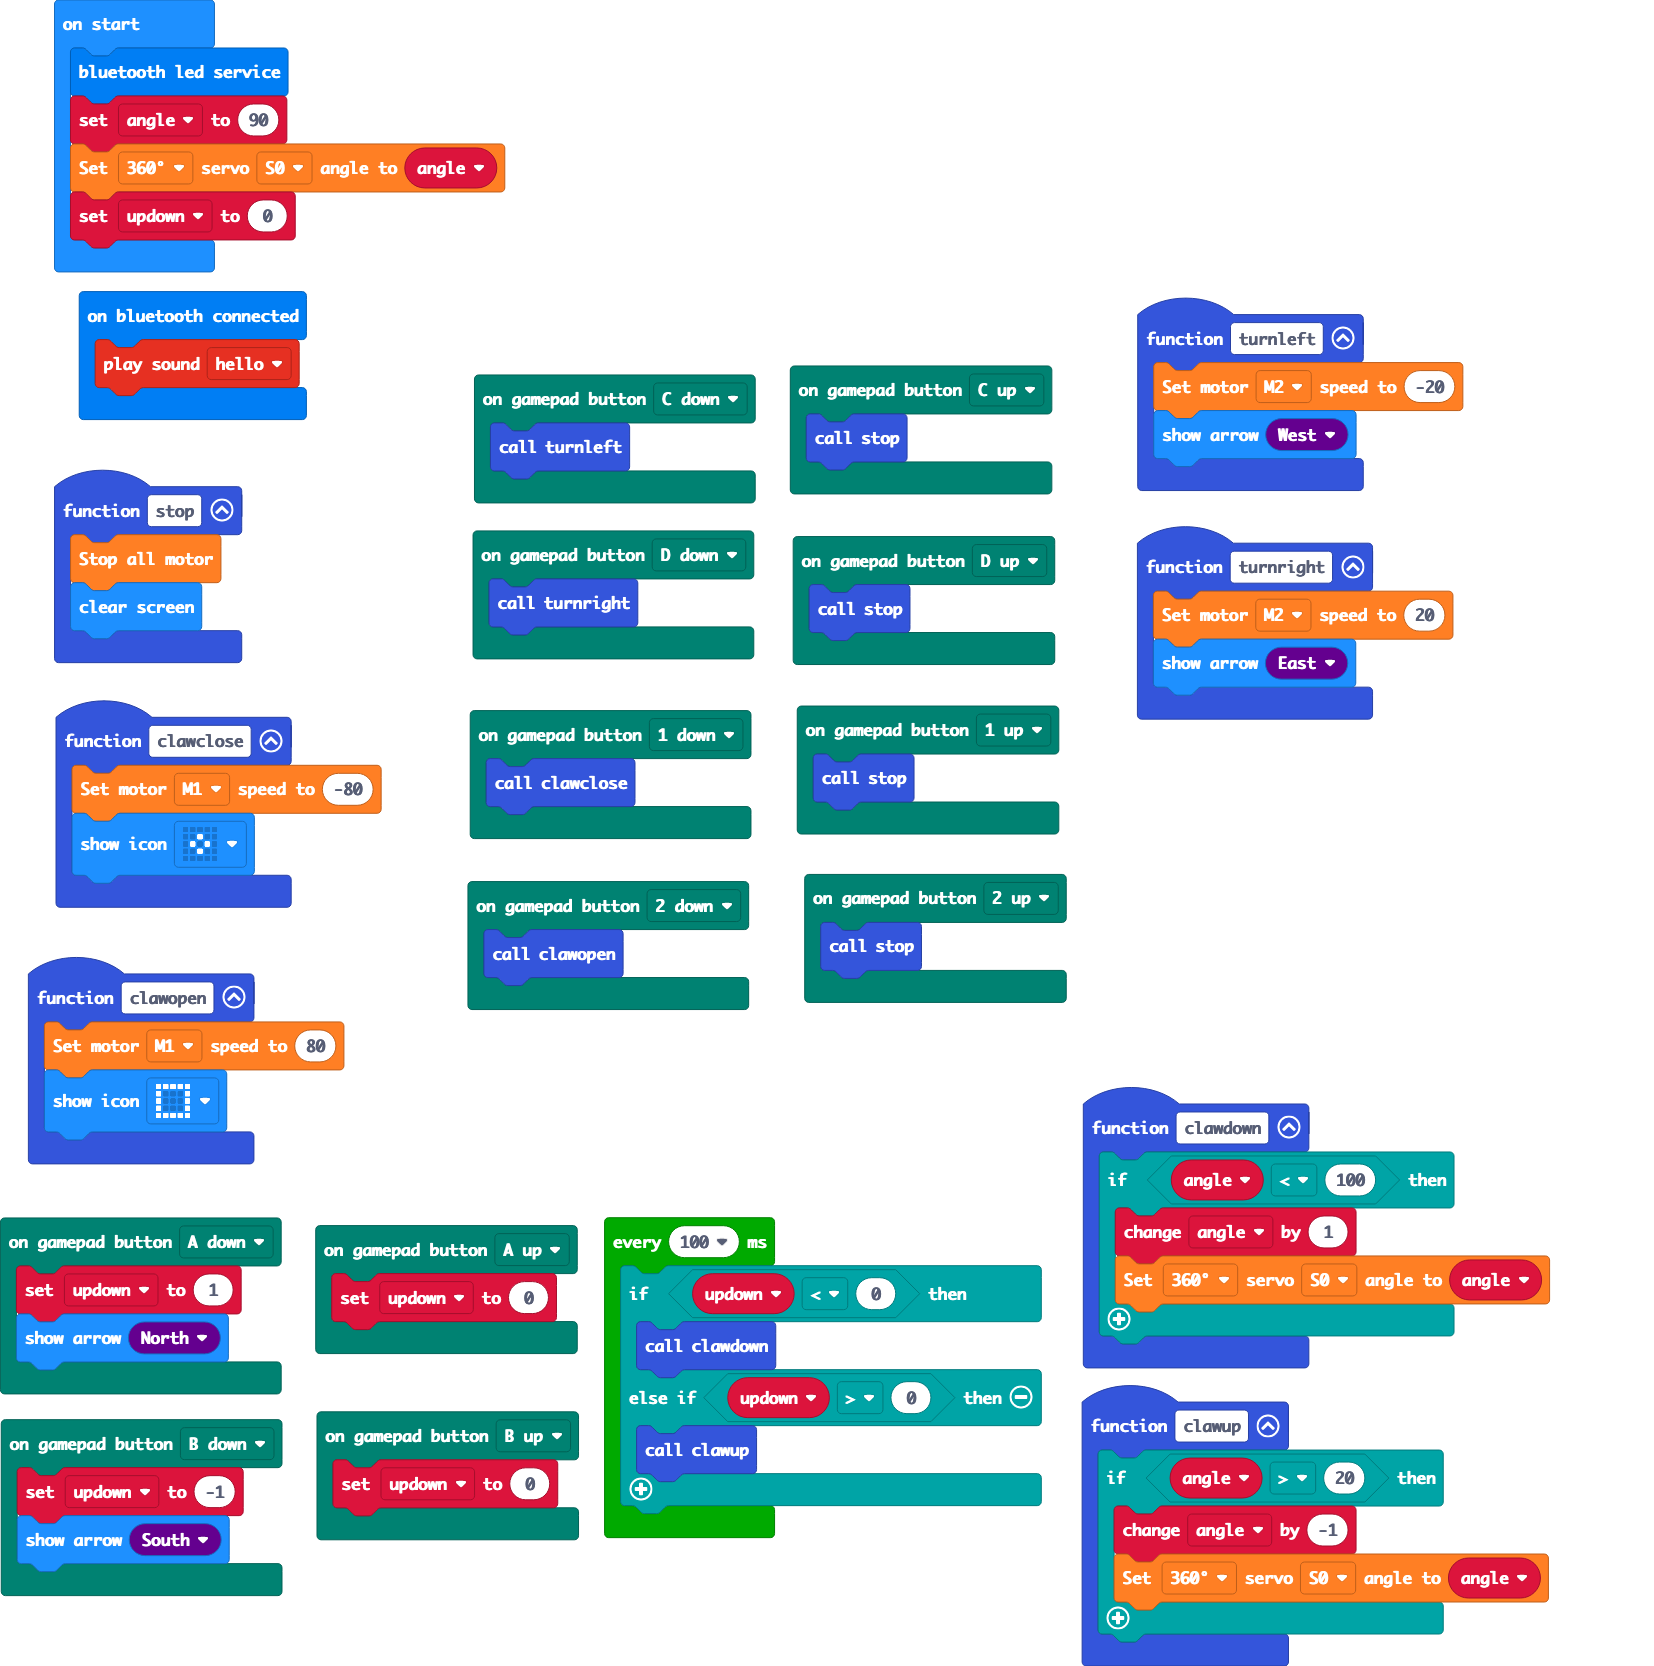
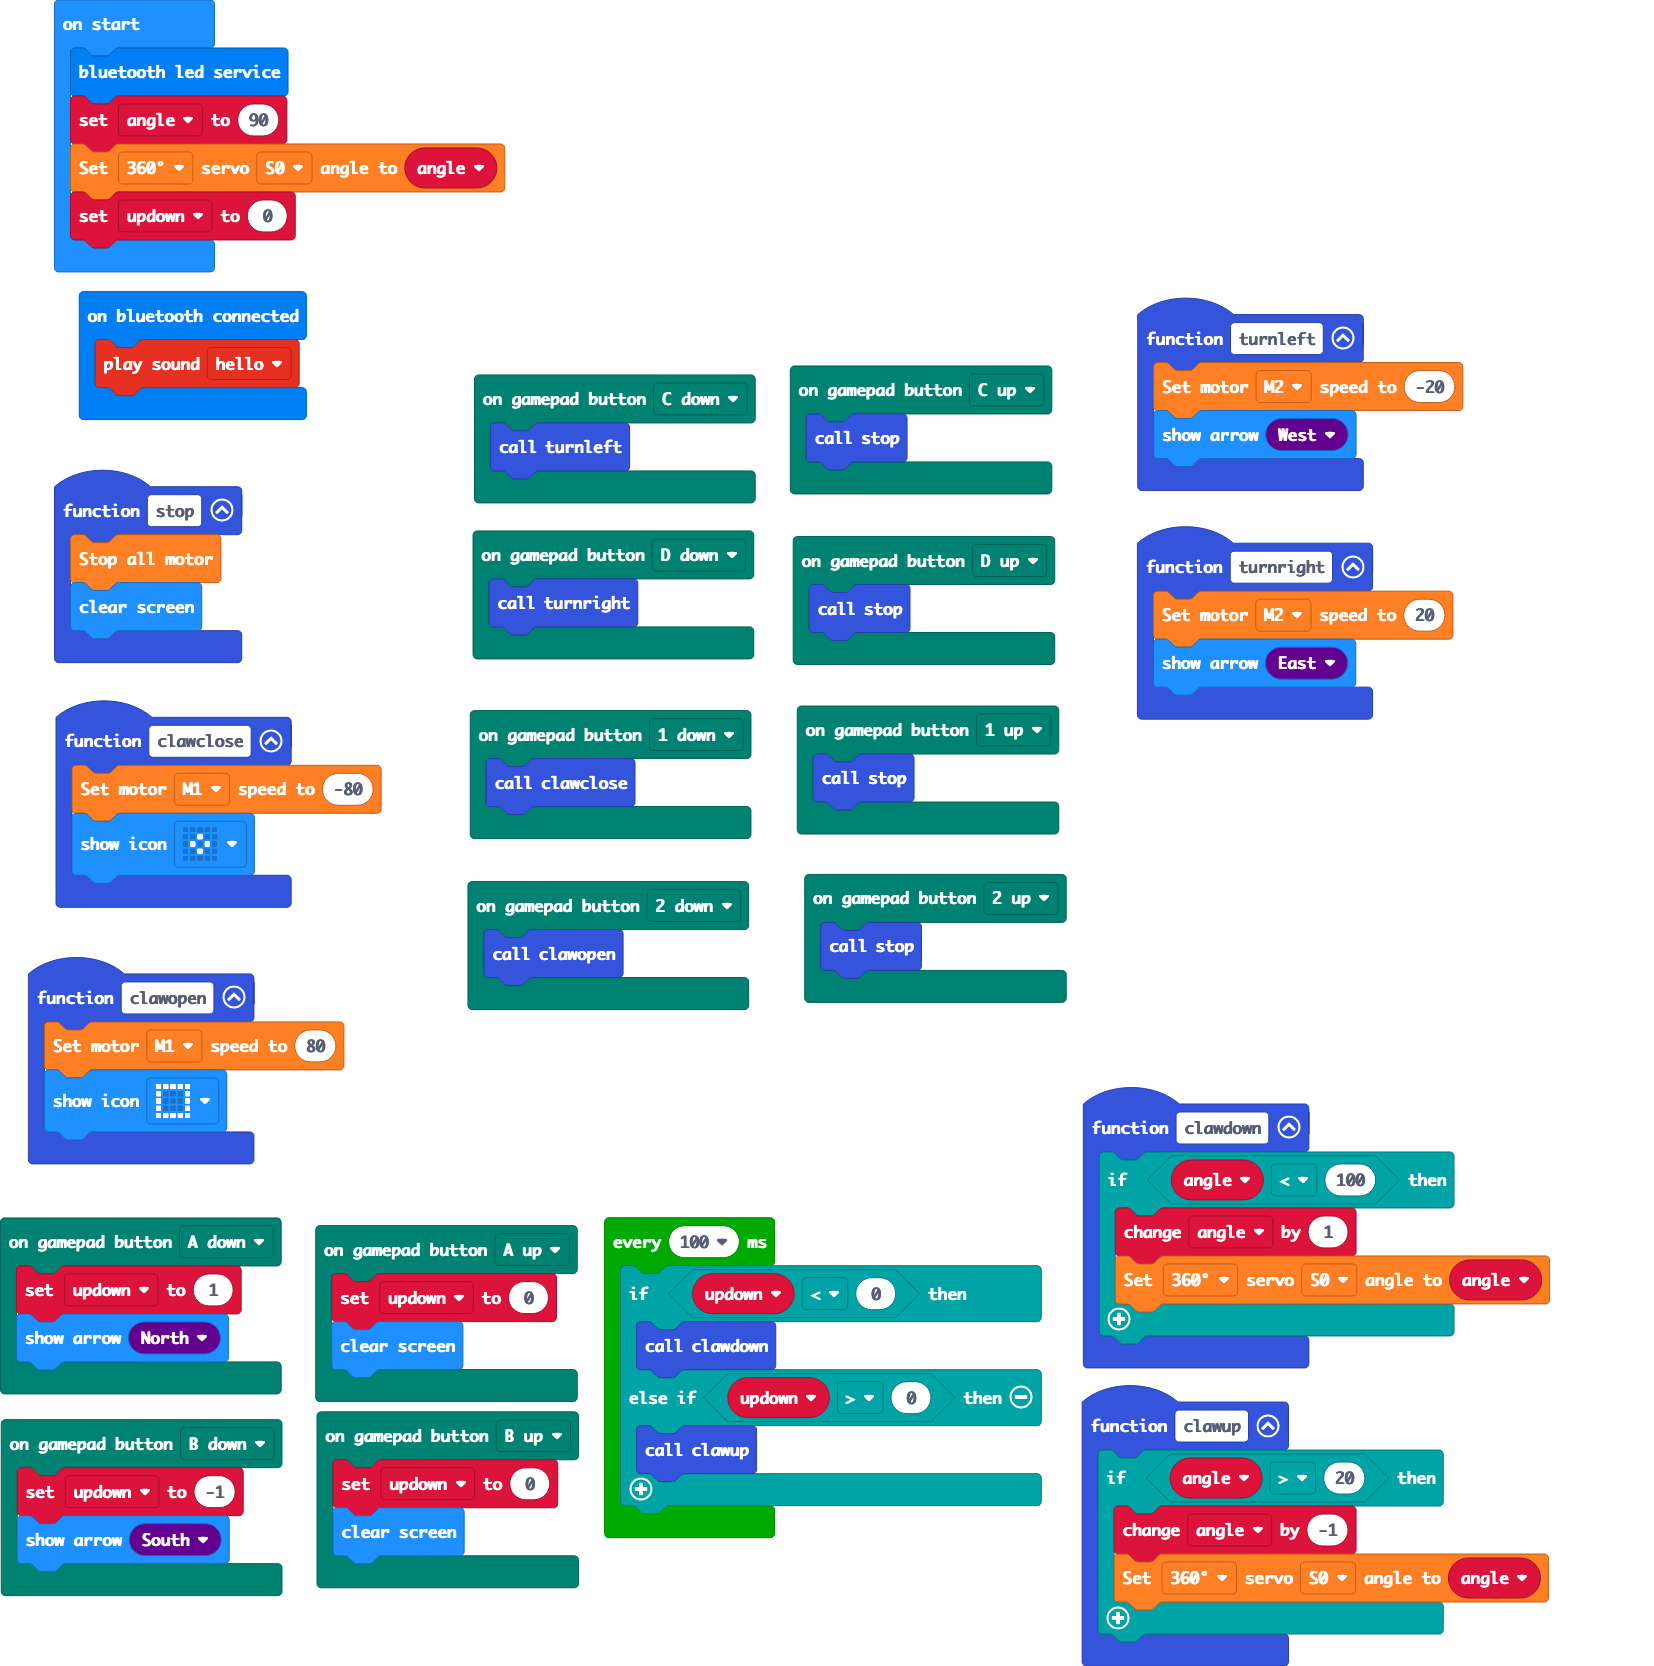
clear screen on gamepad A/B release

Changed region(s): [[0.185, 0.9052, 0.37, 0.9676], [0.185, 0.7803, 0.37, 0.8427]]

diff --git a/main.ts b/main.ts
@@ -47,6 +47,7 @@ function clawclose () {
 }
 devices.onGamepadButton(MesDpadButtonInfo.BUp, function () {
     updown = 0
+    basic.clearScreen()
 })
 function clawopen () {
     wuKong.setMotorSpeed(wuKong.MotorList.M1, 80)
@@ -67,6 +68,7 @@ function turnleft () {
 }
 devices.onGamepadButton(MesDpadButtonInfo.AUp, function () {
     updown = 0
+    basic.clearScreen()
 })
 devices.onGamepadButton(MesDpadButtonInfo.CUp, function () {
     stop()
